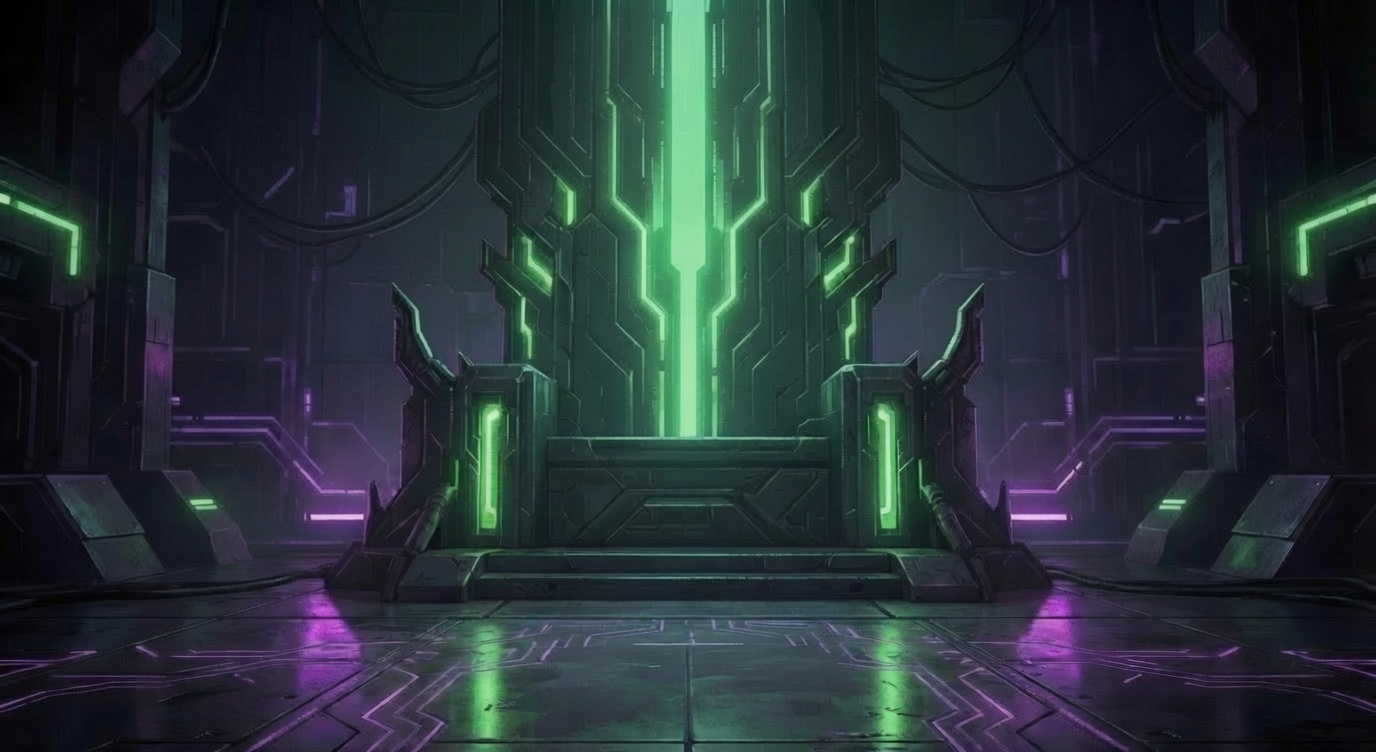
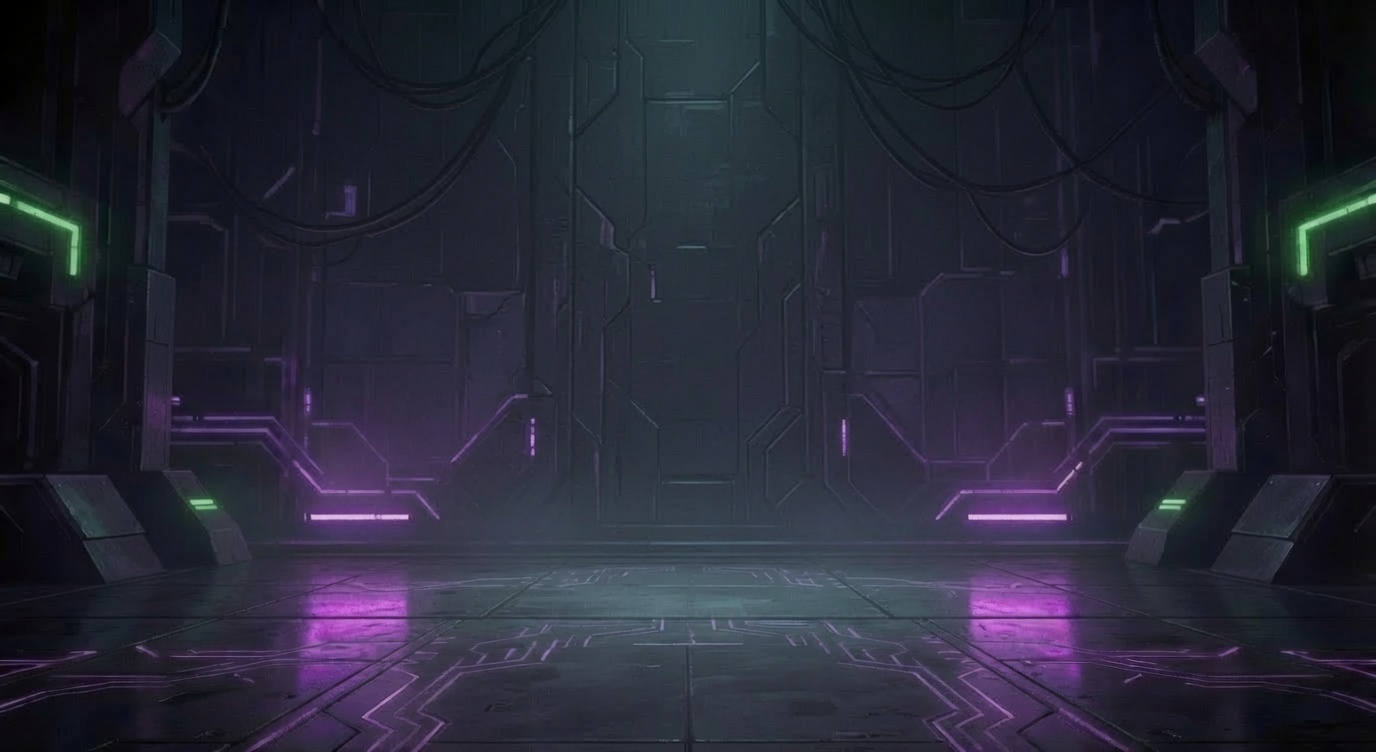
The empty chamber takes the menu
Swapped to the wallpaper without the column. The structure from the last commit
did not move — the full-bleed fixed layer, the art/scrim/content stack, the
glass buttons, the responsive behaviour — because none of it cares what the
picture shows. Three things did, and all three are answers to THIS composition:

  THE SCRIM INVERTED. The old painting needed a hard dark band top and bottom
  with the middle left open, because a bright column ran straight through where
  the wordmark sits. This chamber is dark and quiet exactly through the middle,
  so heavy darkening would only turn a lit room into mud. What is left is a
  vignette to stop the magenta strips down the edges pulling the eye off the
  menu, and a soft wash at the bottom for the build stamp. Same layer, opposite
  shape: the scrim answers the picture, not the layout.

  THE BLOCK CENTRED. The wordmark was shoved up and the menu shoved down onto
  the floor purely to dodge the column between them. With the middle free they
  centre as a pair, which is what the owner asked for and what an empty room
  wants. The build stamp is pinned rather than flowed, or it would push the pair
  off centre making room for itself.

  THE ACCENT MOVED OFF GREEN. Green belonged to the column and there is no
  column; this room is purple with teal light in the floor and the corner
  fixtures. The wordmark glow and the buttons take the game's own --accent teal,
[…]

diff --git a/css/risen.css b/css/risen.css
@@ -257,26 +257,36 @@ body {
   inset: 0;
   background: #05070a url('../assets/ui/menu-wallpaper.jpg') center / cover no-repeat;
 }
-/* THE SCRIM IS SHAPED, NOT FLAT. The painting is brightest dead centre — a
-   green column that would swallow white text — and quietest on the floor at the
-   bottom. So the top is darkened enough to seat the wordmark, the middle is
-   left almost alone because that is the art doing its job, and the bottom is
-   darkened again to bed the menu. A flat overlay would have cost the picture
-   all of its depth to solve a problem it only has in two places. */
+/* A LIGHT TOUCH, BECAUSE THIS PAINTING HAS NO HOT SPOT. The chamber is already
+   dark and quiet through the middle — exactly where the text goes — so there is
+   nothing to fight and heavy darkening would only turn a lit room into mud.
+   What is left is a vignette, which keeps the bright magenta strips down the
+   left and right edges from pulling the eye off the menu, and a soft wash at
+   the very bottom so the build stamp has something to sit on.
+
+   The previous wallpaper needed the opposite treatment (a hard dark band top
+   and bottom, middle left open) because a bright column ran straight through
+   where the wordmark sits. Same layer, opposite shape: the scrim answers the
+   picture, not the layout. */
 .title-art::after {
   content: '';
   position: absolute;
   inset: 0;
   background:
     linear-gradient(to bottom,
-      rgba(3,6,9,0.78) 0%,
-      rgba(3,6,9,0.42) 26%,
-      rgba(3,6,9,0.12) 46%,
-      rgba(3,6,9,0.55) 74%,
-      rgba(3,6,9,0.88) 100%),
-    radial-gradient(ellipse 120% 80% at 50% 45%, transparent 35%, rgba(3,6,9,0.62) 100%);
+      rgba(3,6,9,0.42) 0%,
+      rgba(3,6,9,0.12) 22%,
+      rgba(3,6,9,0.10) 58%,
+      rgba(3,6,9,0.40) 88%,
+      rgba(3,6,9,0.66) 100%),
+    radial-gradient(ellipse 78% 70% at 50% 46%, rgba(3,6,9,0.30) 0%, transparent 62%),
+    radial-gradient(ellipse 110% 90% at 50% 50%, transparent 45%, rgba(3,6,9,0.58) 100%);
 }
 
+/* CENTRED, because the chamber is empty through the middle and a stack floating
+   in it reads as standing in the room. The previous wallpaper forced the
+   opposite — wordmark shoved up and menu shoved down onto the floor — purely to
+   dodge the column between them. */
 .title-body {
   position: relative;
   z-index: 1;
@@ -285,7 +295,9 @@ body {
   display: flex;
   flex-direction: column;
   align-items: center;
-  padding: clamp(26px, 7vh, 74px) 20px clamp(16px, 3vh, 30px);
+  justify-content: center;
+  gap: clamp(26px, 6vh, 62px);
+  padding: clamp(26px, 7vh, 74px) 20px clamp(46px, 8vh, 78px);
 }
 
 .title-mark { text-align: center; }
@@ -307,15 +319,15 @@ body {
   text-shadow:
     0 2px 3px rgba(0,0,0,0.95),
     0 6px 30px rgba(0,0,0,0.8),
-    0 0 40px rgba(125,255,160,0.55),
-    0 0 92px rgba(125,255,160,0.32);
+    0 0 40px rgba(0,240,208,0.42),
+    0 0 92px rgba(192,132,252,0.30);
   animation: titleGlow 5s ease-in-out infinite;
 }
 @keyframes titleGlow {
   0%, 100% { text-shadow: 0 2px 3px rgba(0,0,0,0.95), 0 6px 30px rgba(0,0,0,0.8),
-                          0 0 34px rgba(125,255,160,0.45), 0 0 78px rgba(125,255,160,0.24); }
+                          0 0 30px rgba(0,240,208,0.34), 0 0 76px rgba(192,132,252,0.22); }
   50%      { text-shadow: 0 2px 3px rgba(0,0,0,0.95), 0 6px 30px rgba(0,0,0,0.8),
-                          0 0 48px rgba(125,255,160,0.62), 0 0 108px rgba(125,255,160,0.38); }
+                          0 0 44px rgba(0,240,208,0.5), 0 0 104px rgba(192,132,252,0.34); }
 }
 
 /* This line lands on the brightest pixels in the painting — the top of the
@@ -333,15 +345,10 @@ body {
     0 0 4px rgba(3,8,5,0.98),
     0 0 12px rgba(3,8,5,0.92),
     0 2px 20px rgba(3,8,5,0.85),
-    0 0 34px rgba(125,255,160,0.22);
+    0 0 34px rgba(0,240,208,0.18);
 }
 
-/* Pushed to the lower third on purpose: that is the reflective floor, the
-   quietest part of the painting, and the only place a stack of buttons can sit
-   without covering something worth looking at. */
 .title-menu {
-  margin-top: auto;
-  margin-bottom: clamp(14px, 5vh, 52px);
   display: flex;
   flex-direction: column;
   align-items: center;
@@ -357,7 +364,7 @@ body {
   letter-spacing: 3px;
   color: #dcf3e4;
   background: rgba(6,11,10,0.52);
-  border: 1px solid rgba(125,255,160,0.28);
+  border: 1px solid rgba(0,240,208,0.30);
   border-radius: 6px;
   /* The blur is what lets a button sit on a busy painting and still be read
      without a solid slab hiding the art behind it. */
@@ -368,22 +375,22 @@ body {
               color 0.18s ease, box-shadow 0.18s ease, transform 0.12s ease;
 }
 .title-btn:hover {
-  background: rgba(125,255,160,0.13);
-  border-color: rgba(125,255,160,0.75);
+  background: rgba(0,240,208,0.14);
+  border-color: rgba(0,240,208,0.78);
   color: #ffffff;
-  box-shadow: 0 0 26px rgba(125,255,160,0.24);
+  box-shadow: 0 0 26px rgba(0,240,208,0.26);
 }
 .title-btn:active { transform: translateY(1px); }
 .title-btn:focus-visible {
-  outline: 2px solid rgba(125,255,160,0.9);
+  outline: 2px solid rgba(0,240,208,0.9);
   outline-offset: 3px;
 }
 /* NEW GAME is the one thing most visits are here to press, so it carries a
    brighter edge and an inner lift. One emphasised button, not four. */
 .title-btn.is-primary {
-  border-color: rgba(125,255,160,0.62);
+  border-color: rgba(0,240,208,0.62);
   color: #f2fff7;
-  box-shadow: inset 0 0 26px rgba(125,255,160,0.10), 0 0 20px rgba(125,255,160,0.12);
+  box-shadow: inset 0 0 26px rgba(0,240,208,0.10), 0 0 20px rgba(0,240,208,0.12);
 }
 /* DEV TOOLS is a workbench door, not a play option — same shape, less voice. */
 .title-btn.is-quiet {
@@ -414,7 +421,14 @@ body {
   box-shadow: none;
 }
 
-.title-foot { text-align: center; }
+/* Pinned rather than flowed: the mark and the menu are centred as a pair, and a
+   third child in that group would push them off centre to make room for it. */
+.title-foot {
+  position: absolute;
+  left: 0; right: 0;
+  bottom: clamp(14px, 3vh, 26px);
+  text-align: center;
+}
 .build-tag {
   font-family: 'JetBrains Mono', monospace;
   font-size: 0.64rem;

diff --git a/js/data.js b/js/data.js
@@ -62,7 +62,7 @@
 //
 // KEEP SEPARATE FROM BALANCE.saveKey — that answers "are saved runs still
 // valid". Deriving one from the other would wipe every save on a typo fix.
-const BUILD = '2026-08-01i';
+const BUILD = '2026-08-01j';
 
 const BALANCE = {
   player: {
